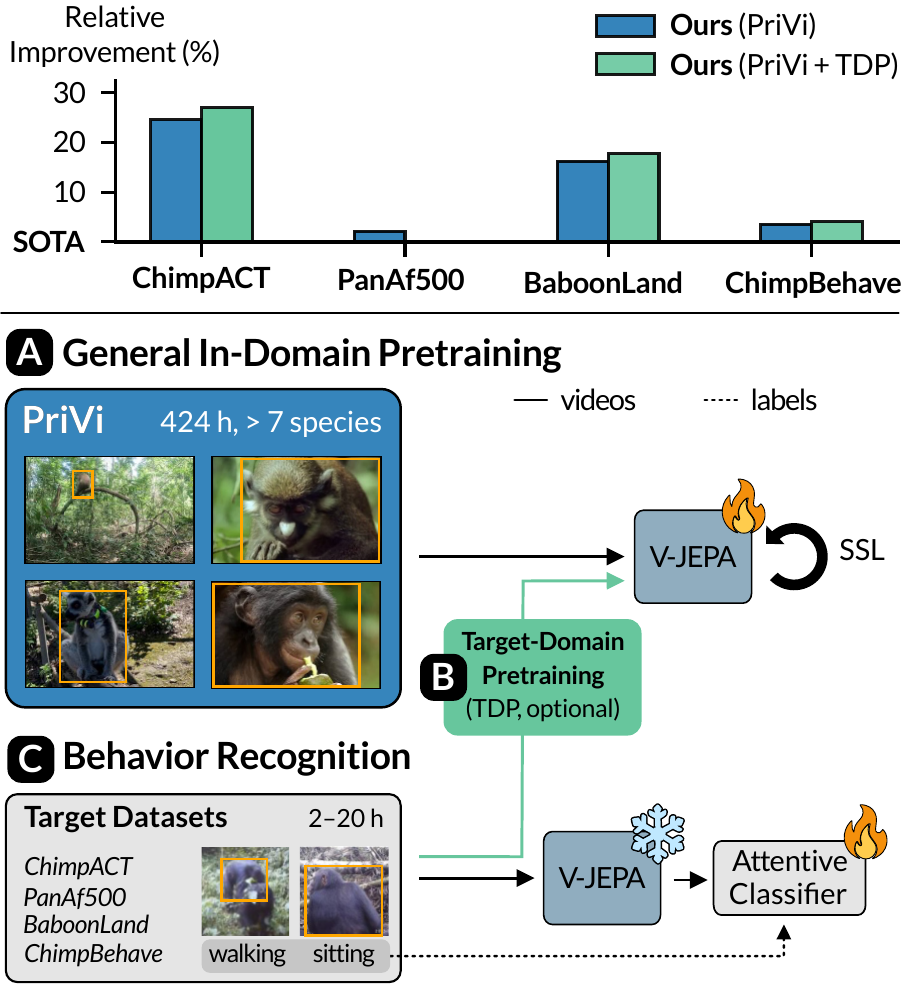
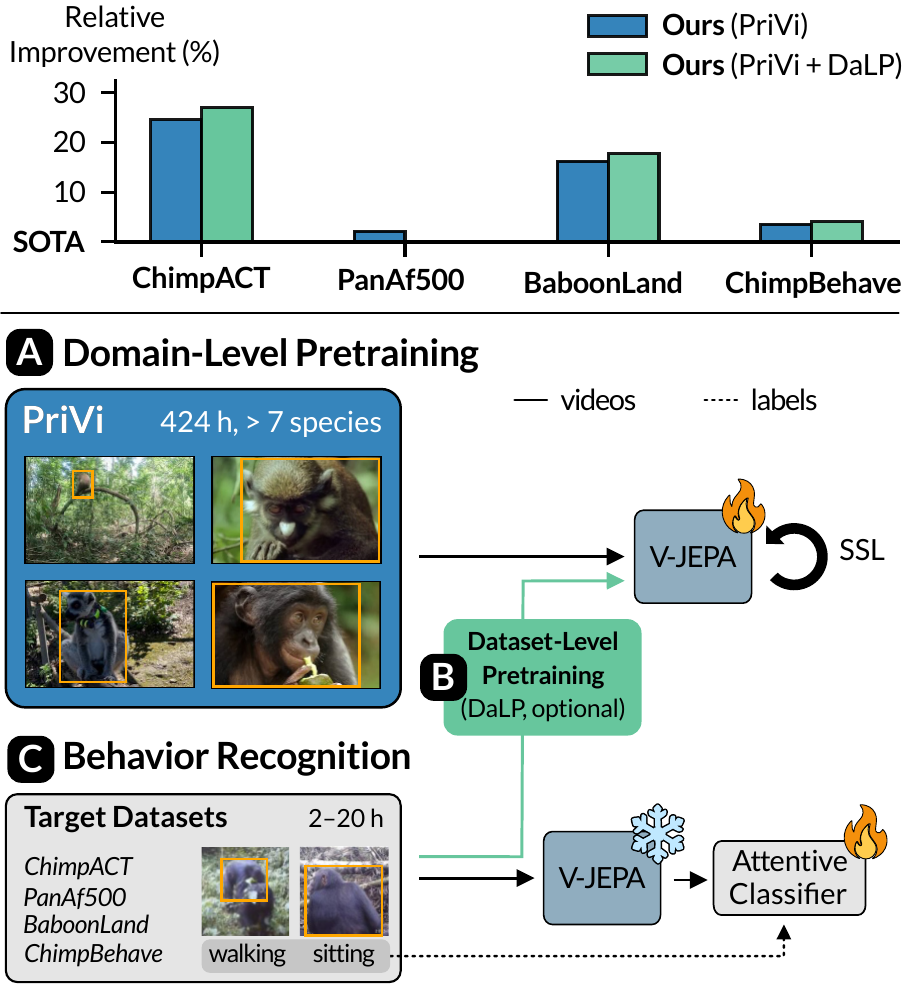
update: call for data & new naming scheme

diff --git a/index.html b/index.html
@@ -49,6 +49,12 @@
       <a href="#" class="btn btn-disabled">Dataset (coming soon)</a>
     </div>
   </div>
+
+  <div class="container" style="margin-top: 24px;">
+    <div class="info-box">
+      <strong>Call for Data Contributions:</strong> We want to turn this project into a broad data collection and curation effort to give computer vision researchers easy access to large-scale high-quality diverse primate videos. The goal is to make it easier to develop methods that work across varying settings and species. If you have primates videos to contribute (observational or part of experiments, no labels or curation needed, can be from test runs or failed experiments), please email <a href="mailto:felix.mueller@cs.uni-goettingen.de">felix.mueller@cs.uni-goettingen.de</a> to become part of the effort!
+    </div>
+  </div>
 </section>
 
 <!-- ════════════ Teaser ════════════ -->
@@ -66,7 +72,7 @@
   <div class="container">
     <h2>Abstract</h2>
     <p class="abstract-text">
-      Non-human primates are our closest living relatives, and analyzing their behavior is central to research in cognition, evolution, and conservation. Computer vision could greatly aid this research, but existing methods often rely on human-centric pretrained models and focus on single datasets, which limits generalization. We address this limitation by shifting from a model-centric to a data-centric approach and introduce <strong>PriVi</strong>, a large-scale primate-centric video pretraining dataset. PriVi contains <strong>424 hours of curated video</strong>, combining 174 hours from behavioral research across 11 settings with 250 hours of diverse web-sourced footage, assembled through a scalable data curation pipeline. We continue pretraining V-JEPA, a large-scale video model,  on PriVi to learn primate-specific representations and evaluate it using a lightweight frozen classifier. Across four benchmark datasets &mdash; ChimpACT, PanAf500, BaboonLand, and ChimpBehave &mdash; our approach consistently outperforms prior work, including fully finetuned baselines, and scales favorably with fewer labels. These results demonstrate for the first time that general in-domain pretraining, where pretraining is conducted on similar data but not the target dataset itself, works for video models. Our primate-centric pretraining substantially improves data efficiency and generalization, making it a promising approach for low-label applications.
+      Non-human primates are our closest living relatives, and analyzing their behavior is central to research in cognition, evolution, and conservation. Computer vision could greatly aid this research, but existing methods often rely on human-centric pretrained models and focus on single datasets, which limits generalization. We address this limitation by shifting from a model-centric to a data-centric approach and introduce <strong>PriVi</strong>, a large-scale primate-centric video pretraining dataset. PriVi contains <strong>424 hours of curated video</strong>, combining 174 hours from behavioral research across 11 settings with 250 hours of diverse web-sourced footage, assembled through a scalable data curation pipeline. We continue pretraining V-JEPA, a large-scale video model,  on PriVi to learn primate-specific representations and evaluate it using a lightweight frozen classifier. Across four benchmark datasets &mdash; ChimpACT, PanAf500, BaboonLand, and ChimpBehave &mdash; our approach consistently outperforms prior work, including fully finetuned baselines, and scales favorably with fewer labels. These results demonstrate for the first time that domain-level pretraining, where pretraining is conducted on similar data but not the target dataset itself, works for video models. Our primate-centric pretraining substantially improves data efficiency and generalization, making it a promising approach for low-label applications.
     </p>
   </div>
 </section>
@@ -151,7 +157,8 @@
             <tr><td>Chimpanzees</td><td>7.8%</td><td>35.7%</td><td>19.3%</td></tr>
             <tr><td>Baboons</td><td>1.3%</td><td>16.2%</td><td>7.4%</td></tr>
             <tr><td>True Lemurs</td><td>&lt;1%</td><td>22.7%</td><td>9.8%</td></tr>
-            <tr><td>Marmosets</td><td>&lt;1%</td><td>11.1%</td><td>5.1%</td></tr>
+            <tr><td>Marmosets</td><td>&lt;1%</td><td>5.7%</td><td>2.1%</td></tr>
+            <tr><td>Squirrel monkeys</td><td>&lt;1%</td><td>5.4%</td><td>2.0%</td></tr>
             <tr><td>Orangutans</td><td>4.1%</td><td>0%</td><td>2.4%</td></tr>
             <tr><td>Others</td><td>8.1%</td><td>0%</td><td>4.8%</td></tr>
           </tbody>
@@ -274,7 +281,7 @@
             <td class="second-val">95.58</td><td>71.30</td>
           </tr>
           <tr>
-            <td style="text-align:left;padding-left:20px;"><strong>PriVi + TDP</strong></td>
+            <td style="text-align:left;padding-left:20px;"><strong>PriVi + DaLP</strong></td>
             <td class="best-val">40.00</td><td class="best-val">59.29</td>
             <td class="second-val">85.01</td><td class="best-val">62.96</td>
             <td class="best-val">76.42</td><td class="best-val">38.57</td>

diff --git a/style.css b/style.css
@@ -22,6 +22,20 @@ body {
   font-size: 16px;
 }
 
+/* ── Info Box ── */
+.info-box {
+  background: var(--blue-light);
+  border-left: 4px solid var(--blue);
+  border-radius: 6px;
+  padding: 16px 20px;
+  font-size: 0.95rem;
+  line-height: 1.6;
+  color: var(--text);
+}
+.info-box strong {
+  color: var(--blue-dark);
+}
+
 /* ── Layout ── */
 .container { max-width: var(--max-width); margin: 0 auto; padding: 0 24px; }
 section { padding: 48px 0; }
